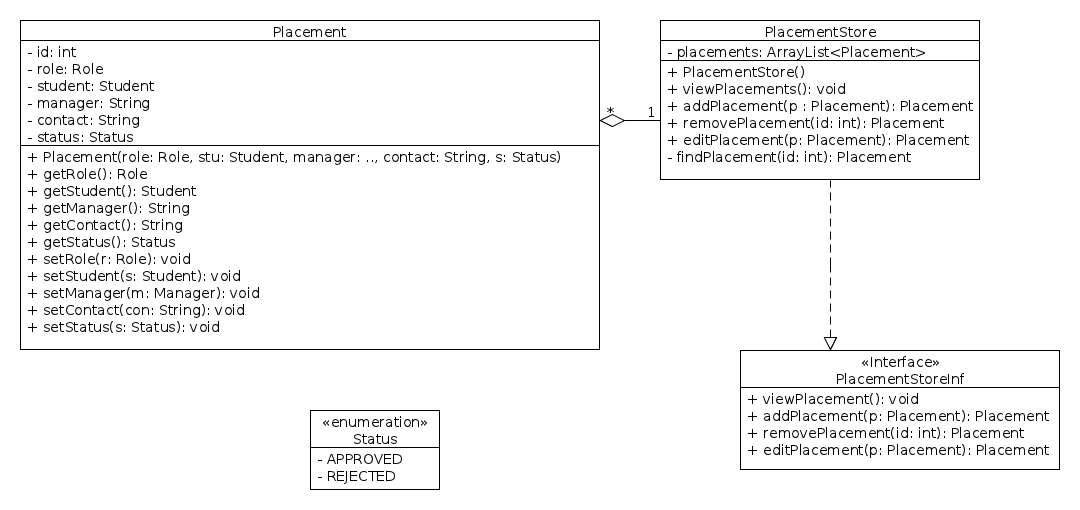
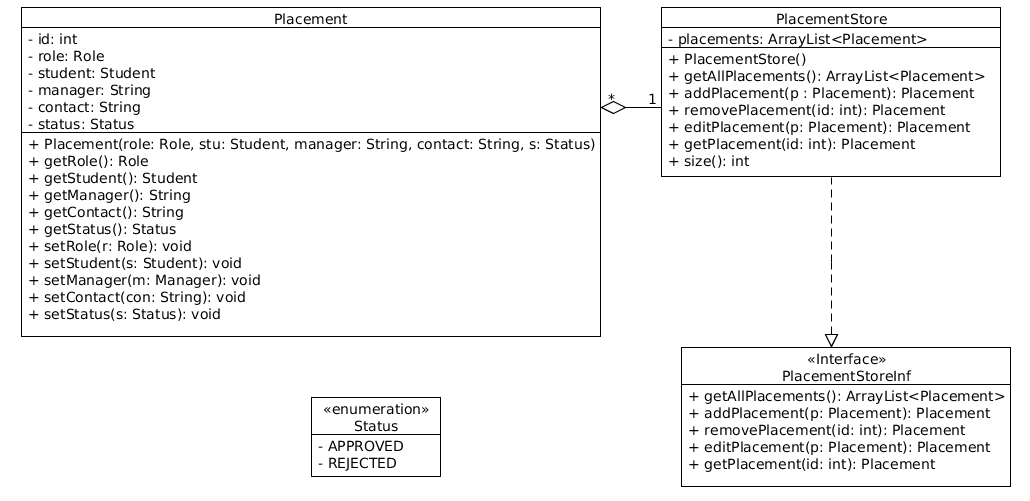
placement store interface

Changed region(s): [[0.0, 0.0299, 0.9631, 0.6886], [0.6835, 0.6587, 0.9942, 0.9581], [0.2796, 0.7784, 0.435, 0.988]]

diff --git a/9. Implementation/PlacementStore/PlacementStoreInterface.java b/9. Implementation/PlacementStore/PlacementStoreInterface.java
@@ -1,0 +1,54 @@
+
+import java.util.ArrayList;
+
+public interface PlacementStoreInf{
+
+	/**
+	 * returns ArrayList of all existing placements in PlacementStore
+	 */
+	ArrayList<Placement> getAllPlacements();
+	
+	/**
+	 * Returns a newly added Placement, if successful, Null otherwise.
+	 * 
+	 * @param p
+	 *            the new placement
+	 */
+	Placement addPlacement(Placement p);
+	
+
+	/**
+	 * Returns a removed Placement, if placement id matches, Null otherwise.
+	 * 
+	 * @param id
+	 *            the placement id
+	 */
+	Placement removePlacement(int id);
+
+	/**
+	 * Returns an edited Placement, if placement exists, Null otherwise.
+	 * 
+	 * @param p
+	 *            the edited placement
+	 */
+	Placement editPlacement(Placement p);
+
+	/**
+	 * Returns a Placement with the given id, if successful, Null otherwise.
+	 * 
+	 * @param id
+	 *            the placement id
+	 */
+	Placement getPlacement(id: int);
+}
+
+
+
+
+
+
+
+
+
+
+
